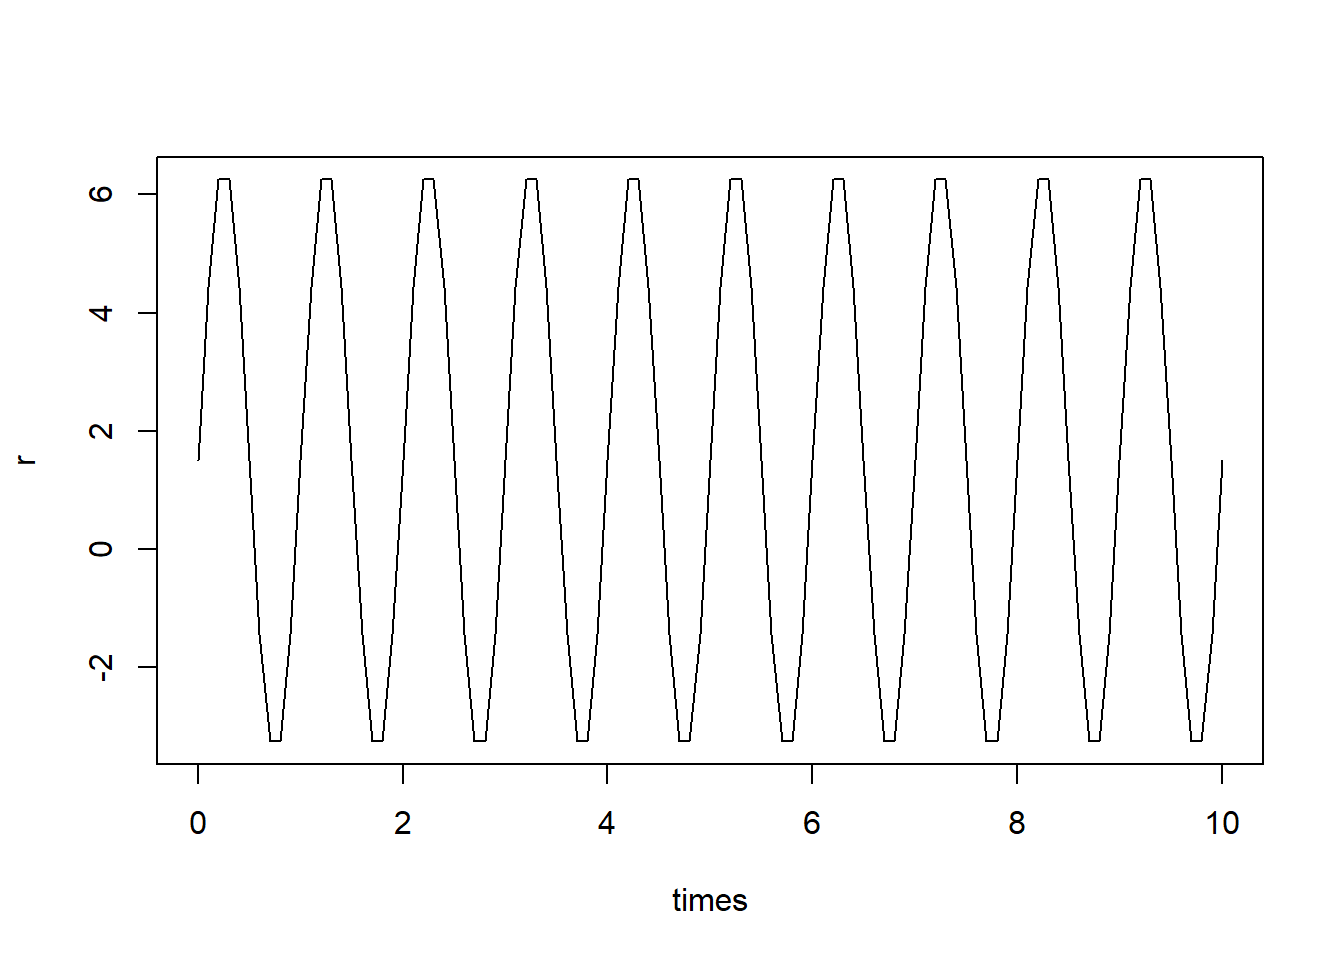
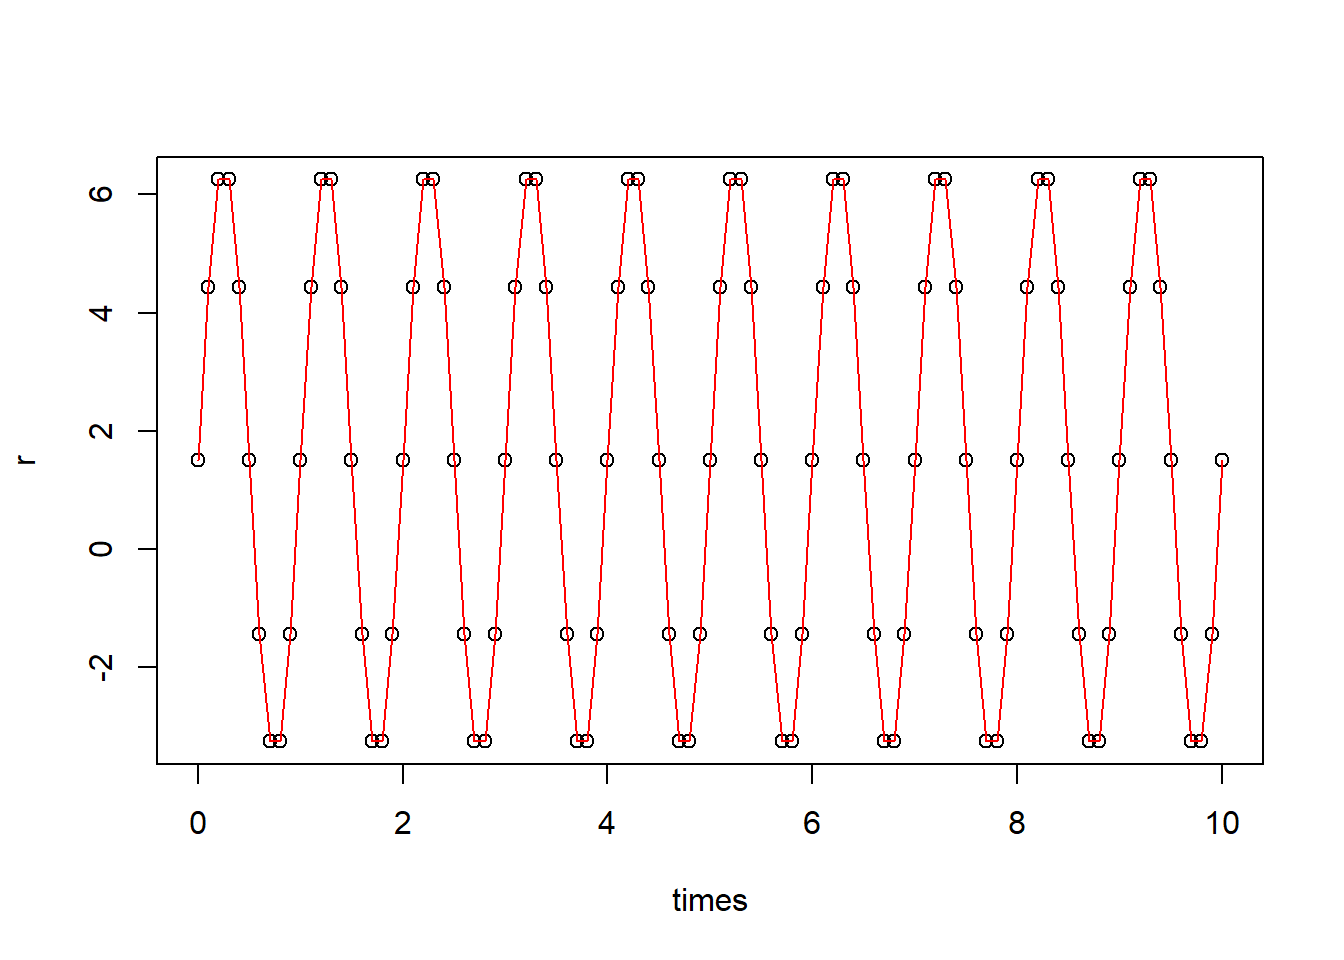
20220912

diff --git a/_book/week-2---exponential-population-growth.html b/_book/week-2---exponential-population-growth.html
@@ -297,7 +297,8 @@ N(t) = N_0\exp\{\overline{r}t - \frac{\sigma}{\omega}[\cos(\omega t) - 1]\}
 <p>Plot <span class="math inline">\(r(t)\)</span></p>
 <div class="sourceCode" id="cb11"><pre class="sourceCode r"><code class="sourceCode r"><span id="cb11-1"><a href="week-2---exponential-population-growth.html#cb11-1"></a><span class="co">### Fluctuating growth rate</span></span>
 <span id="cb11-2"><a href="week-2---exponential-population-growth.html#cb11-2"></a>r =<span class="st"> </span>parms[<span class="dv">1</span>] <span class="op">+</span><span class="st"> </span>parms[<span class="dv">2</span>]<span class="op">*</span><span class="kw">sin</span>(parms[<span class="dv">3</span>]<span class="op">*</span>times)</span>
-<span id="cb11-3"><a href="week-2---exponential-population-growth.html#cb11-3"></a><span class="kw">plot</span>(r <span class="op">~</span><span class="st"> </span>times, <span class="dt">type =</span> <span class="st">&quot;l&quot;</span>)</span></code></pre></div>
+<span id="cb11-3"><a href="week-2---exponential-population-growth.html#cb11-3"></a><span class="kw">plot</span>(r <span class="op">~</span><span class="st"> </span>times)</span>
+<span id="cb11-4"><a href="week-2---exponential-population-growth.html#cb11-4"></a><span class="kw">curve</span>(parms[<span class="dv">1</span>] <span class="op">+</span><span class="st"> </span>parms[<span class="dv">2</span>]<span class="op">*</span><span class="kw">sin</span>(parms[<span class="dv">3</span>]<span class="op">*</span>x), <span class="dt">add =</span> T, <span class="dt">col =</span> <span class="st">&quot;red&quot;</span>)</span></code></pre></div>
 <p><img src="bookdown-demo_files/figure-html/unnamed-chunk-9-1.png" width="672" /></p>
 <div class="sourceCode" id="cb12"><pre class="sourceCode r"><code class="sourceCode r"><span id="cb12-1"><a href="week-2---exponential-population-growth.html#cb12-1"></a><span class="co">### Solving model</span></span>
 <span id="cb12-2"><a href="week-2---exponential-population-growth.html#cb12-2"></a>pop_size &lt;-<span class="st"> </span><span class="kw">ode</span>(<span class="dt">func =</span> exponential_model_fluc, <span class="dt">times =</span> times, <span class="dt">y =</span> state, <span class="dt">parms =</span> parms)</span>
@@ -317,7 +318,8 @@ N(t) = N_0\exp\{\overline{r}t - \frac{\sigma}{\omega}[\cos(\omega t) - 1]\}
 <span id="cb14-5"><a href="week-2---exponential-population-growth.html#cb14-5"></a></span>
 <span id="cb14-6"><a href="week-2---exponential-population-growth.html#cb14-6"></a><span class="co">### Fluctuating growth rate</span></span>
 <span id="cb14-7"><a href="week-2---exponential-population-growth.html#cb14-7"></a>r =<span class="st"> </span>parms[<span class="dv">1</span>] <span class="op">+</span><span class="st"> </span>parms[<span class="dv">2</span>]<span class="op">*</span><span class="kw">sin</span>(parms[<span class="dv">3</span>]<span class="op">*</span>times)</span>
-<span id="cb14-8"><a href="week-2---exponential-population-growth.html#cb14-8"></a><span class="kw">plot</span>(r <span class="op">~</span><span class="st"> </span>times, <span class="dt">type =</span> <span class="st">&quot;l&quot;</span>)</span></code></pre></div>
+<span id="cb14-8"><a href="week-2---exponential-population-growth.html#cb14-8"></a><span class="kw">plot</span>(r <span class="op">~</span><span class="st"> </span>times)</span>
+<span id="cb14-9"><a href="week-2---exponential-population-growth.html#cb14-9"></a><span class="kw">curve</span>(parms[<span class="dv">1</span>] <span class="op">+</span><span class="st"> </span>parms[<span class="dv">2</span>]<span class="op">*</span><span class="kw">sin</span>(parms[<span class="dv">3</span>]<span class="op">*</span>x), <span class="dt">add =</span> T, <span class="dt">col =</span> <span class="st">&quot;red&quot;</span>)</span></code></pre></div>
 <p><img src="bookdown-demo_files/figure-html/unnamed-chunk-11-1.png" width="672" /></p>
 <div class="sourceCode" id="cb15"><pre class="sourceCode r"><code class="sourceCode r"><span id="cb15-1"><a href="week-2---exponential-population-growth.html#cb15-1"></a><span class="co">### Solving model</span></span>
 <span id="cb15-2"><a href="week-2---exponential-population-growth.html#cb15-2"></a>pop_size &lt;-<span class="st"> </span><span class="kw">ode</span>(<span class="dt">func =</span> exponential_model_fluc, <span class="dt">times =</span> times, <span class="dt">y =</span> state, <span class="dt">parms =</span> parms)</span>

diff --git a/week-2---exponential-population-growth.html b/week-2---exponential-population-growth.html
@@ -297,7 +297,8 @@ N(t) = N_0\exp\{\overline{r}t - \frac{\sigma}{\omega}[\cos(\omega t) - 1]\}
 <p>Plot <span class="math inline">\(r(t)\)</span></p>
 <div class="sourceCode" id="cb11"><pre class="sourceCode r"><code class="sourceCode r"><span id="cb11-1"><a href="week-2---exponential-population-growth.html#cb11-1"></a><span class="co">### Fluctuating growth rate</span></span>
 <span id="cb11-2"><a href="week-2---exponential-population-growth.html#cb11-2"></a>r =<span class="st"> </span>parms[<span class="dv">1</span>] <span class="op">+</span><span class="st"> </span>parms[<span class="dv">2</span>]<span class="op">*</span><span class="kw">sin</span>(parms[<span class="dv">3</span>]<span class="op">*</span>times)</span>
-<span id="cb11-3"><a href="week-2---exponential-population-growth.html#cb11-3"></a><span class="kw">plot</span>(r <span class="op">~</span><span class="st"> </span>times, <span class="dt">type =</span> <span class="st">&quot;l&quot;</span>)</span></code></pre></div>
+<span id="cb11-3"><a href="week-2---exponential-population-growth.html#cb11-3"></a><span class="kw">plot</span>(r <span class="op">~</span><span class="st"> </span>times)</span>
+<span id="cb11-4"><a href="week-2---exponential-population-growth.html#cb11-4"></a><span class="kw">curve</span>(parms[<span class="dv">1</span>] <span class="op">+</span><span class="st"> </span>parms[<span class="dv">2</span>]<span class="op">*</span><span class="kw">sin</span>(parms[<span class="dv">3</span>]<span class="op">*</span>x), <span class="dt">add =</span> T, <span class="dt">col =</span> <span class="st">&quot;red&quot;</span>)</span></code></pre></div>
 <p><img src="bookdown-demo_files/figure-html/unnamed-chunk-9-1.png" width="672" /></p>
 <div class="sourceCode" id="cb12"><pre class="sourceCode r"><code class="sourceCode r"><span id="cb12-1"><a href="week-2---exponential-population-growth.html#cb12-1"></a><span class="co">### Solving model</span></span>
 <span id="cb12-2"><a href="week-2---exponential-population-growth.html#cb12-2"></a>pop_size &lt;-<span class="st"> </span><span class="kw">ode</span>(<span class="dt">func =</span> exponential_model_fluc, <span class="dt">times =</span> times, <span class="dt">y =</span> state, <span class="dt">parms =</span> parms)</span>
@@ -317,7 +318,8 @@ N(t) = N_0\exp\{\overline{r}t - \frac{\sigma}{\omega}[\cos(\omega t) - 1]\}
 <span id="cb14-5"><a href="week-2---exponential-population-growth.html#cb14-5"></a></span>
 <span id="cb14-6"><a href="week-2---exponential-population-growth.html#cb14-6"></a><span class="co">### Fluctuating growth rate</span></span>
 <span id="cb14-7"><a href="week-2---exponential-population-growth.html#cb14-7"></a>r =<span class="st"> </span>parms[<span class="dv">1</span>] <span class="op">+</span><span class="st"> </span>parms[<span class="dv">2</span>]<span class="op">*</span><span class="kw">sin</span>(parms[<span class="dv">3</span>]<span class="op">*</span>times)</span>
-<span id="cb14-8"><a href="week-2---exponential-population-growth.html#cb14-8"></a><span class="kw">plot</span>(r <span class="op">~</span><span class="st"> </span>times, <span class="dt">type =</span> <span class="st">&quot;l&quot;</span>)</span></code></pre></div>
+<span id="cb14-8"><a href="week-2---exponential-population-growth.html#cb14-8"></a><span class="kw">plot</span>(r <span class="op">~</span><span class="st"> </span>times)</span>
+<span id="cb14-9"><a href="week-2---exponential-population-growth.html#cb14-9"></a><span class="kw">curve</span>(parms[<span class="dv">1</span>] <span class="op">+</span><span class="st"> </span>parms[<span class="dv">2</span>]<span class="op">*</span><span class="kw">sin</span>(parms[<span class="dv">3</span>]<span class="op">*</span>x), <span class="dt">add =</span> T, <span class="dt">col =</span> <span class="st">&quot;red&quot;</span>)</span></code></pre></div>
 <p><img src="bookdown-demo_files/figure-html/unnamed-chunk-11-1.png" width="672" /></p>
 <div class="sourceCode" id="cb15"><pre class="sourceCode r"><code class="sourceCode r"><span id="cb15-1"><a href="week-2---exponential-population-growth.html#cb15-1"></a><span class="co">### Solving model</span></span>
 <span id="cb15-2"><a href="week-2---exponential-population-growth.html#cb15-2"></a>pop_size &lt;-<span class="st"> </span><span class="kw">ode</span>(<span class="dt">func =</span> exponential_model_fluc, <span class="dt">times =</span> times, <span class="dt">y =</span> state, <span class="dt">parms =</span> parms)</span>
